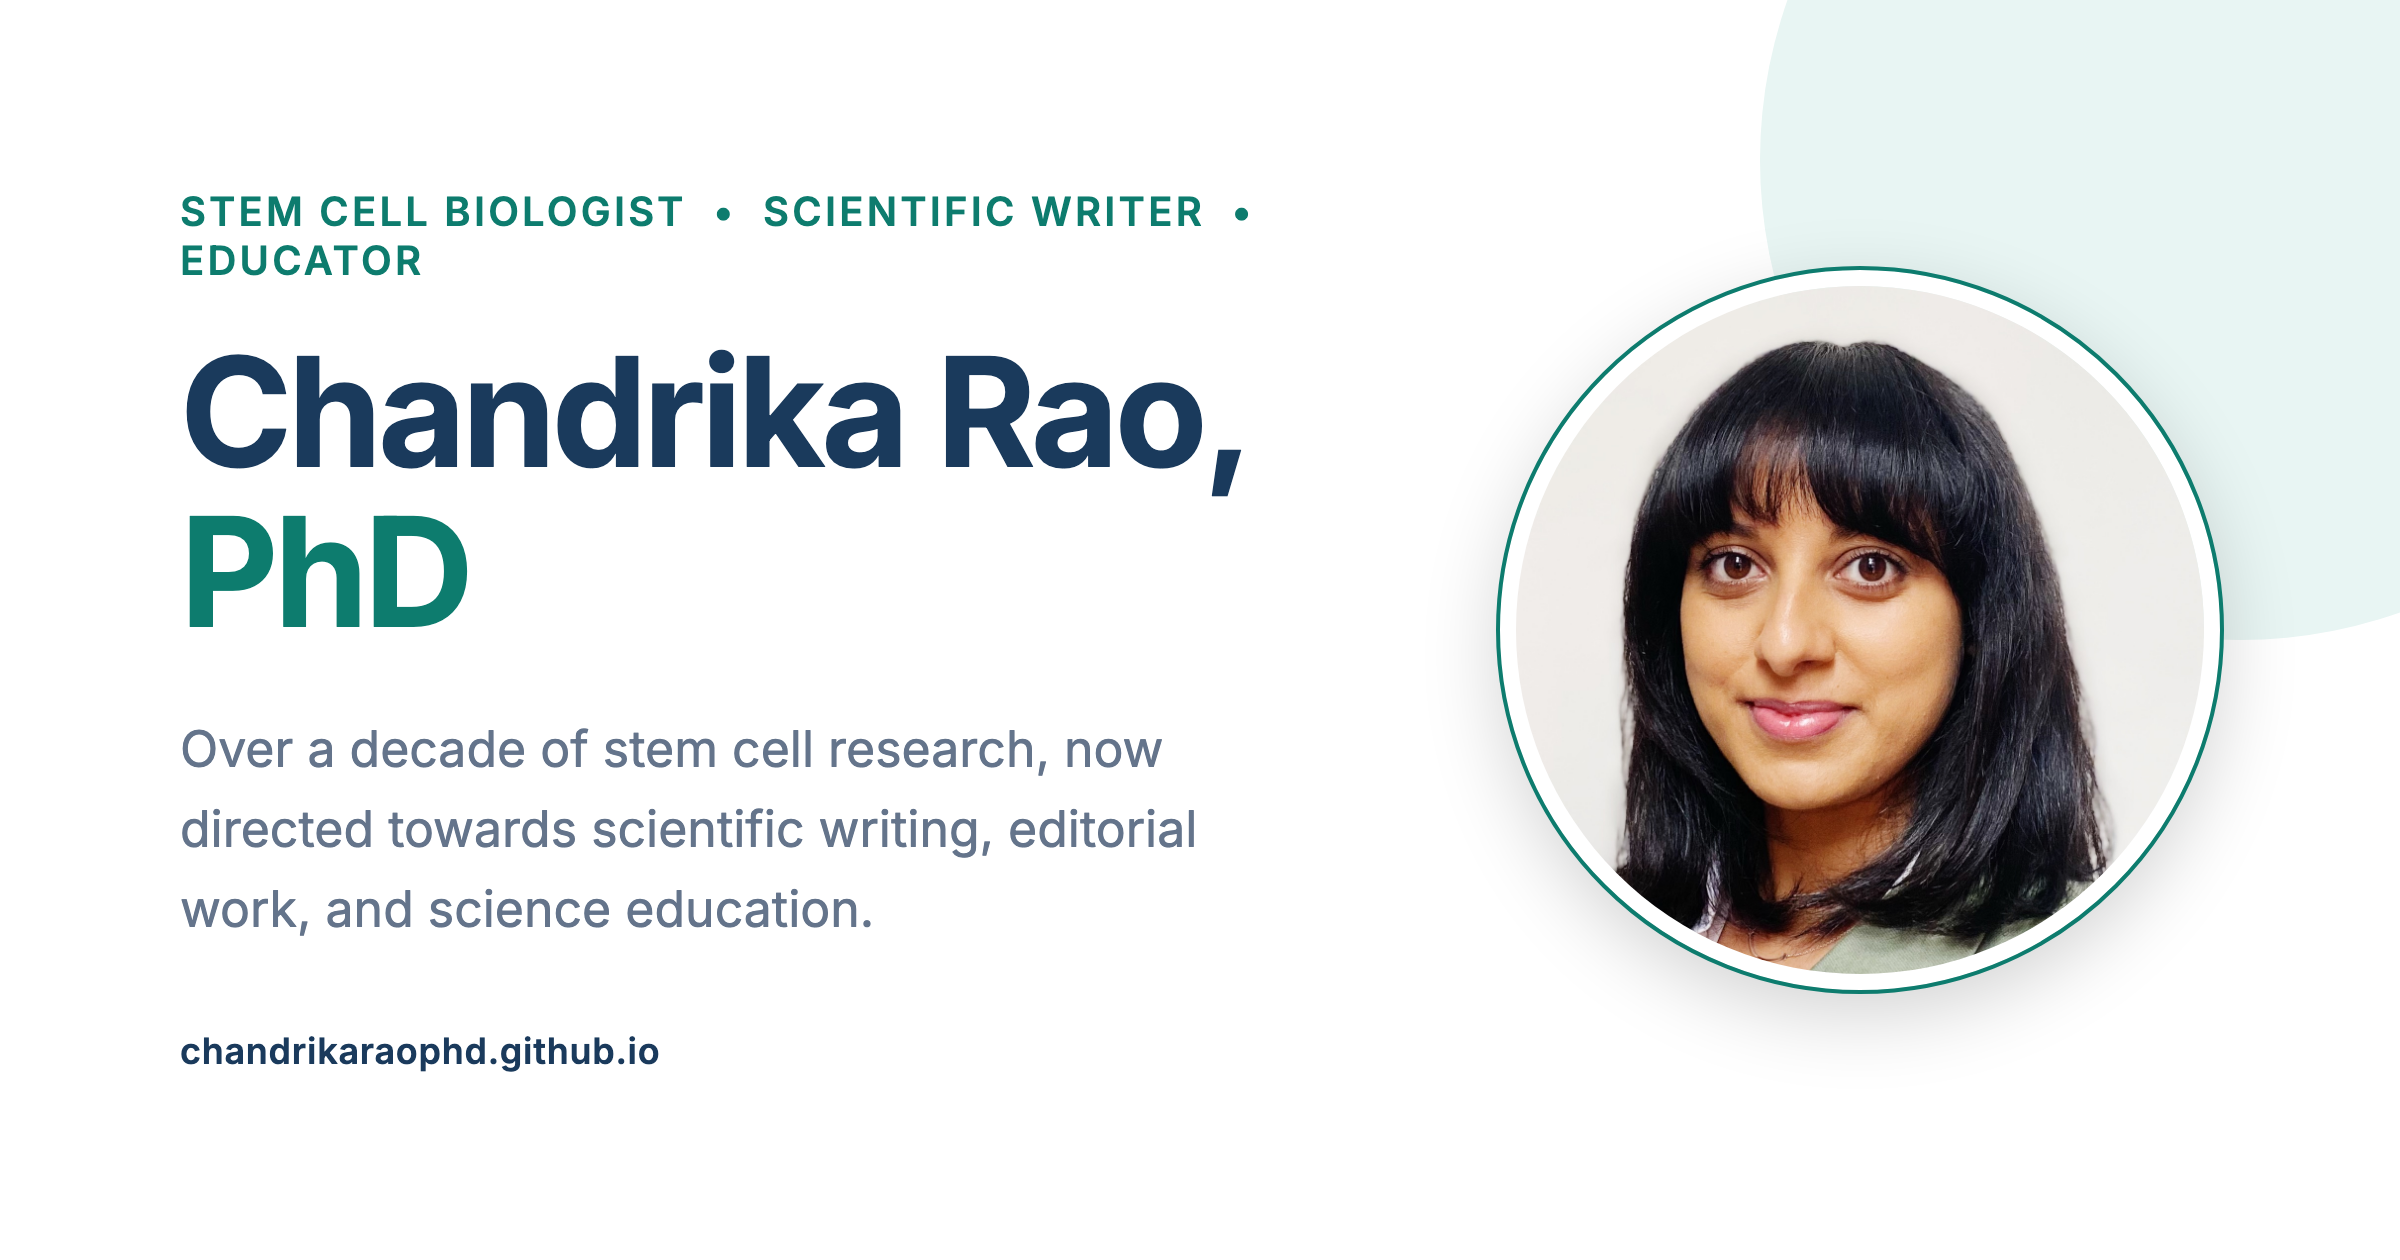
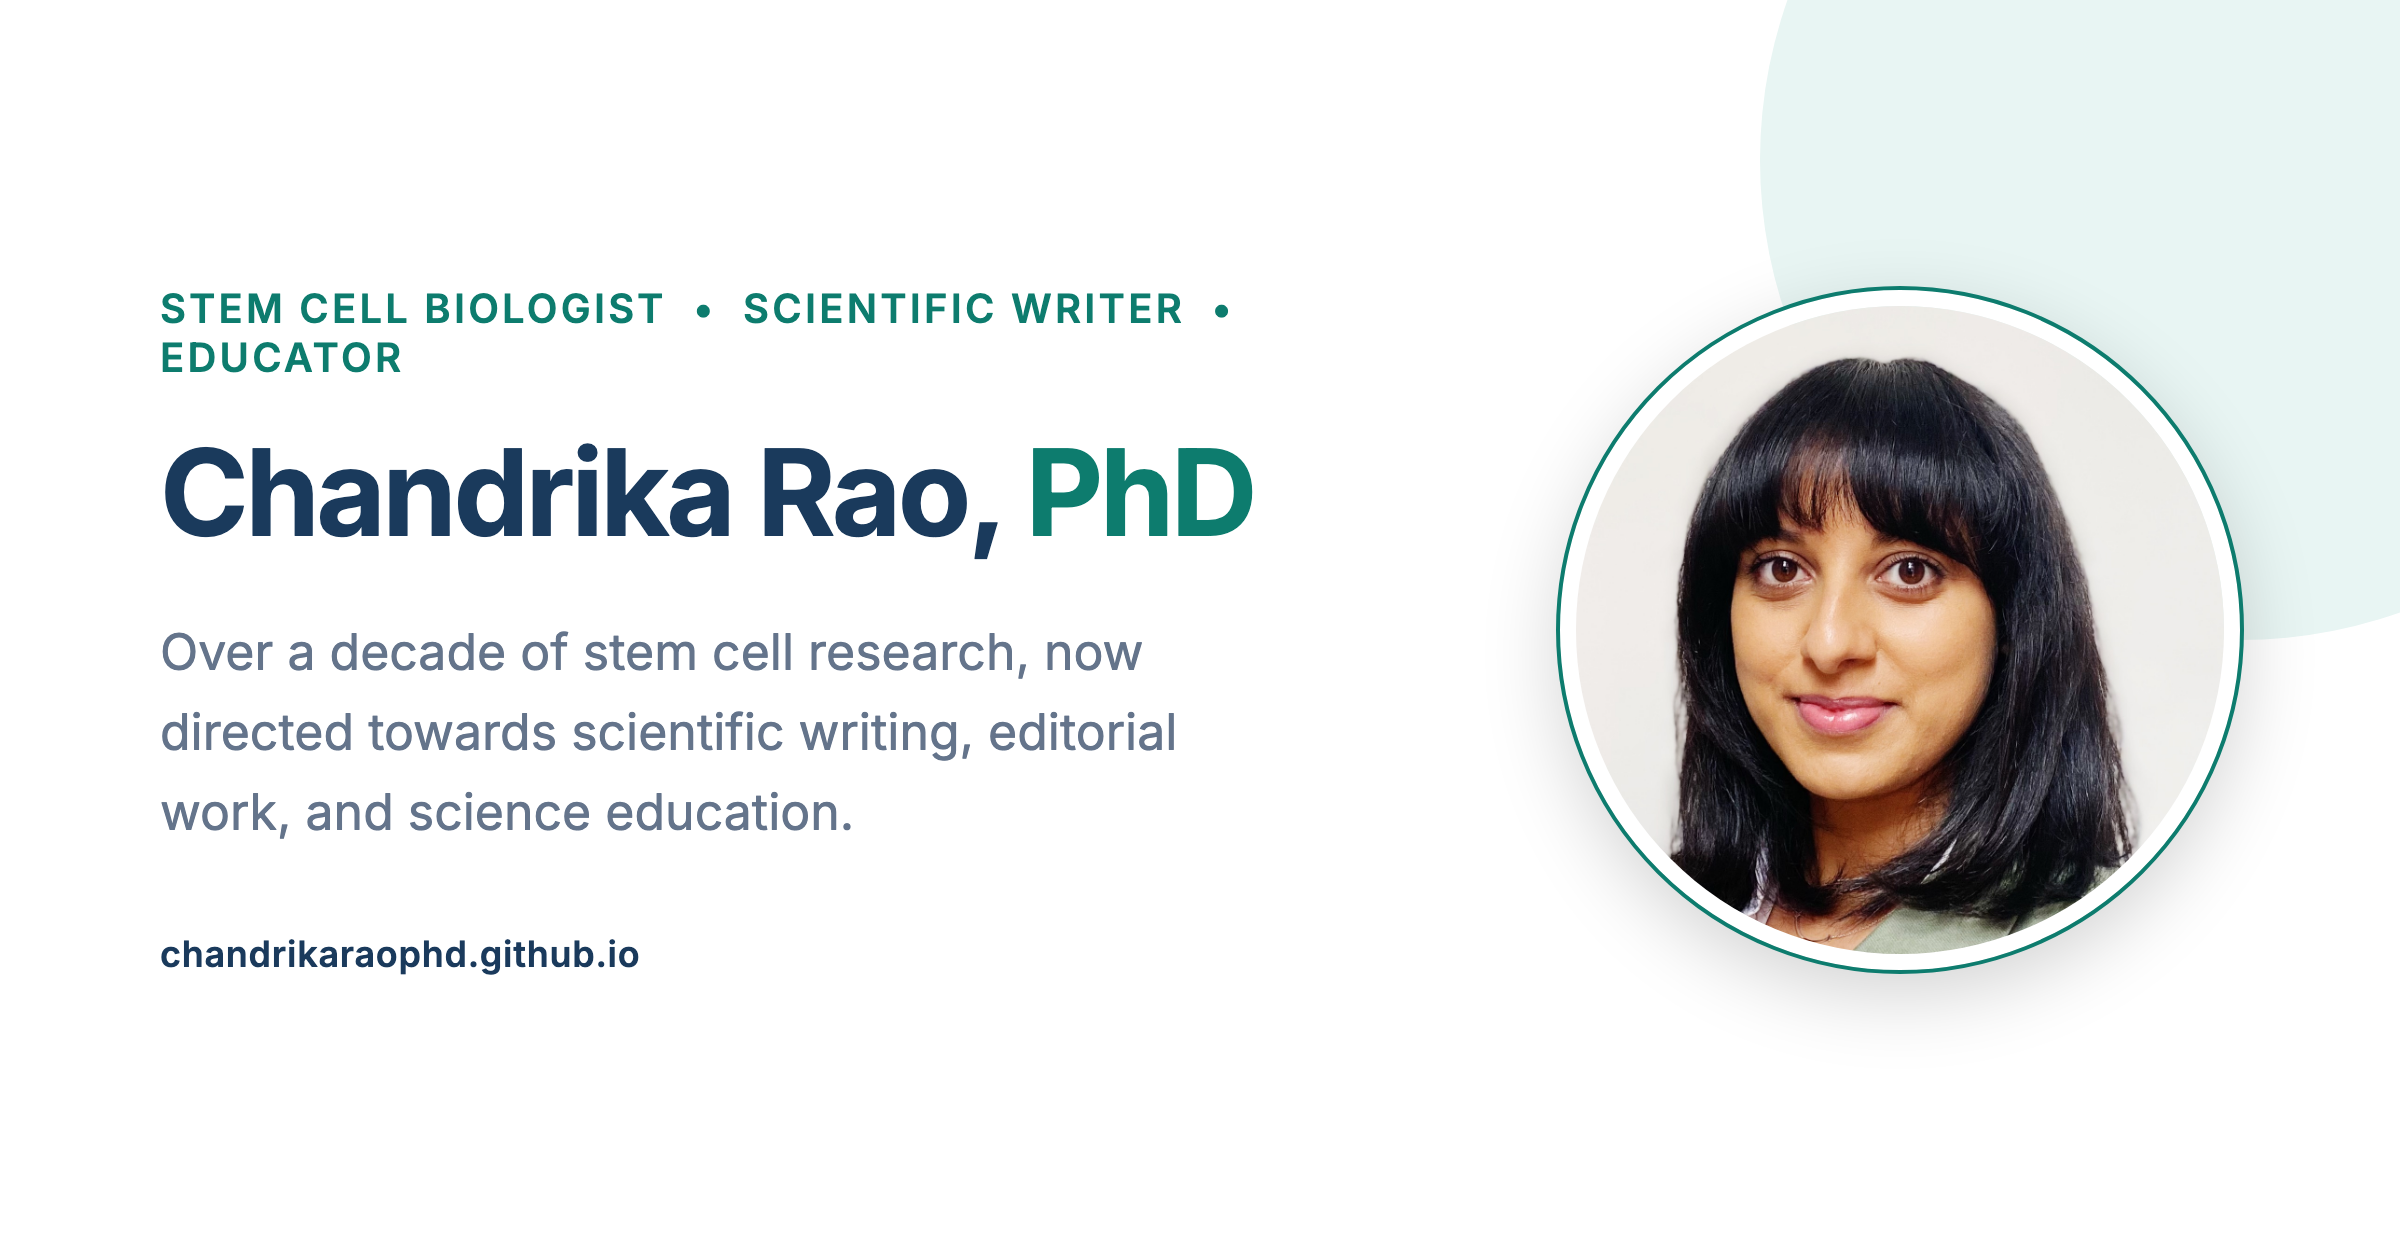
Keep name on one line in social card
Reduce headline size and add nowrap so "Chandrika Rao, PhD" stays on
a single line; minor spacing/photo tweaks to keep the layout balanced.

diff --git a/og-card.html b/og-card.html
@@ -24,8 +24,8 @@
       height: 630px;
       display: flex;
       align-items: center;
-      gap: 72px;
-      padding: 0 90px;
+      gap: 60px;
+      padding: 0 80px;
       position: relative;
     }
     /* soft brand accent in the corner */
@@ -49,12 +49,13 @@
       margin-bottom: 24px;
     }
     h1 {
-      font-size: 76px;
+      font-size: 60px;
       font-weight: 700;
       color: var(--navy);
       letter-spacing: -.03em;
       line-height: 1.05;
       margin-bottom: 28px;
+      white-space: nowrap;
     }
     h1 .teal { color: var(--teal); }
     .lead {
@@ -72,8 +73,8 @@
       letter-spacing: .02em;
     }
     .photo {
-      width: 360px;
-      height: 360px;
+      width: 340px;
+      height: 340px;
       border-radius: 50%;
       overflow: hidden;
       flex-shrink: 0;
